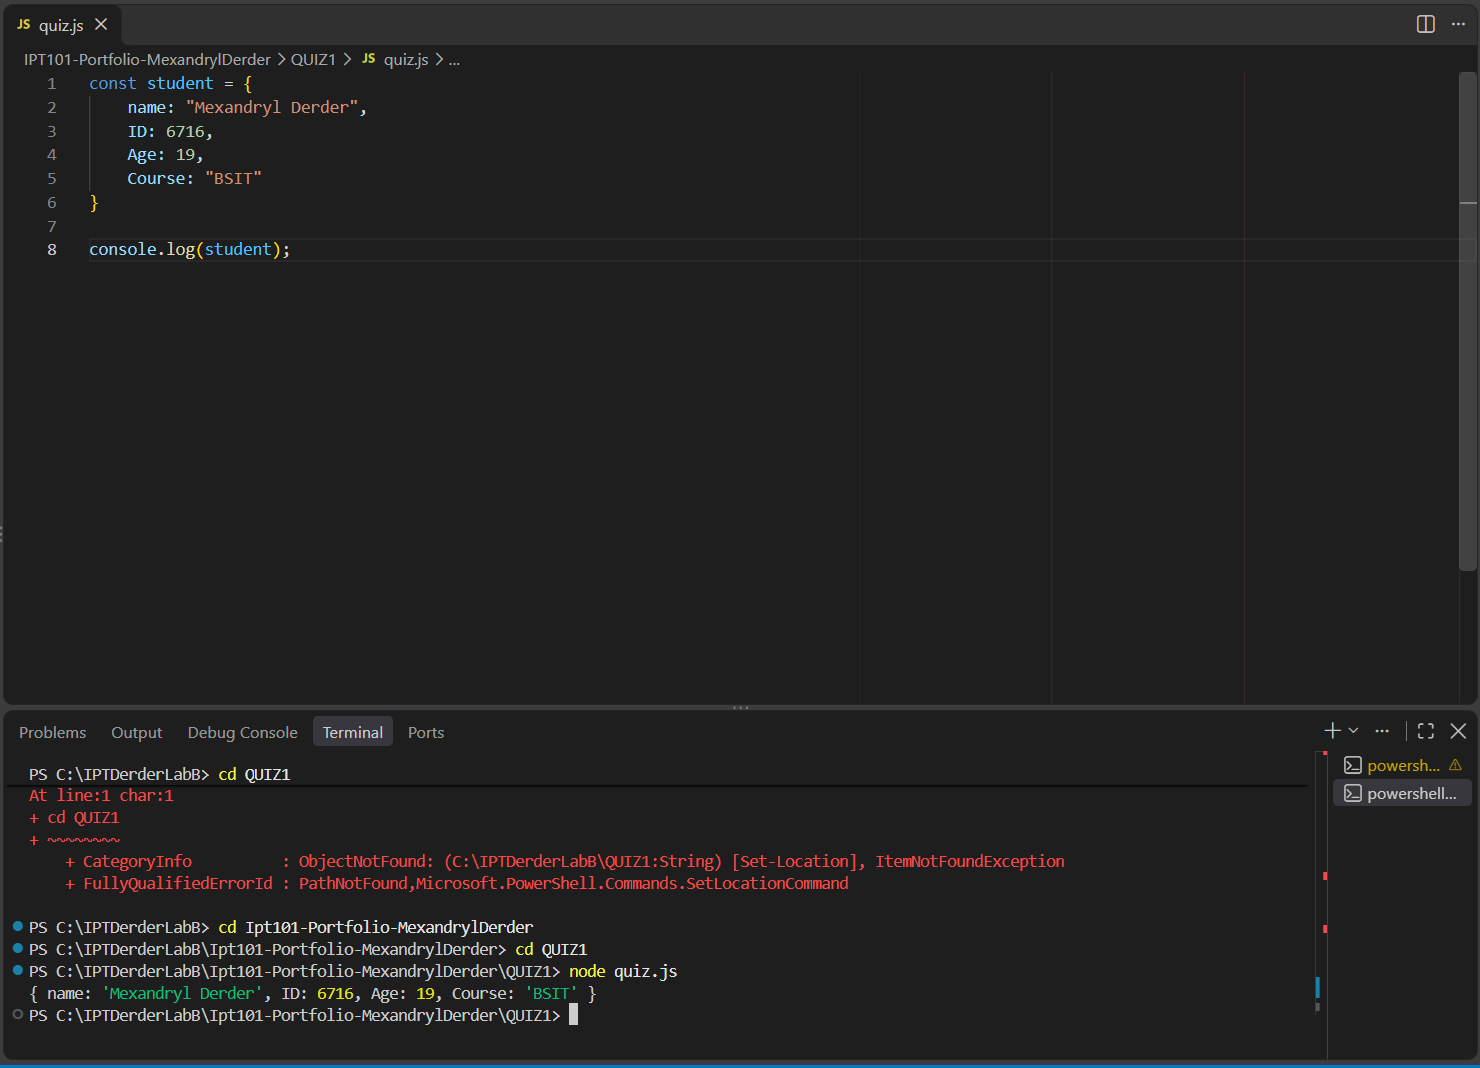
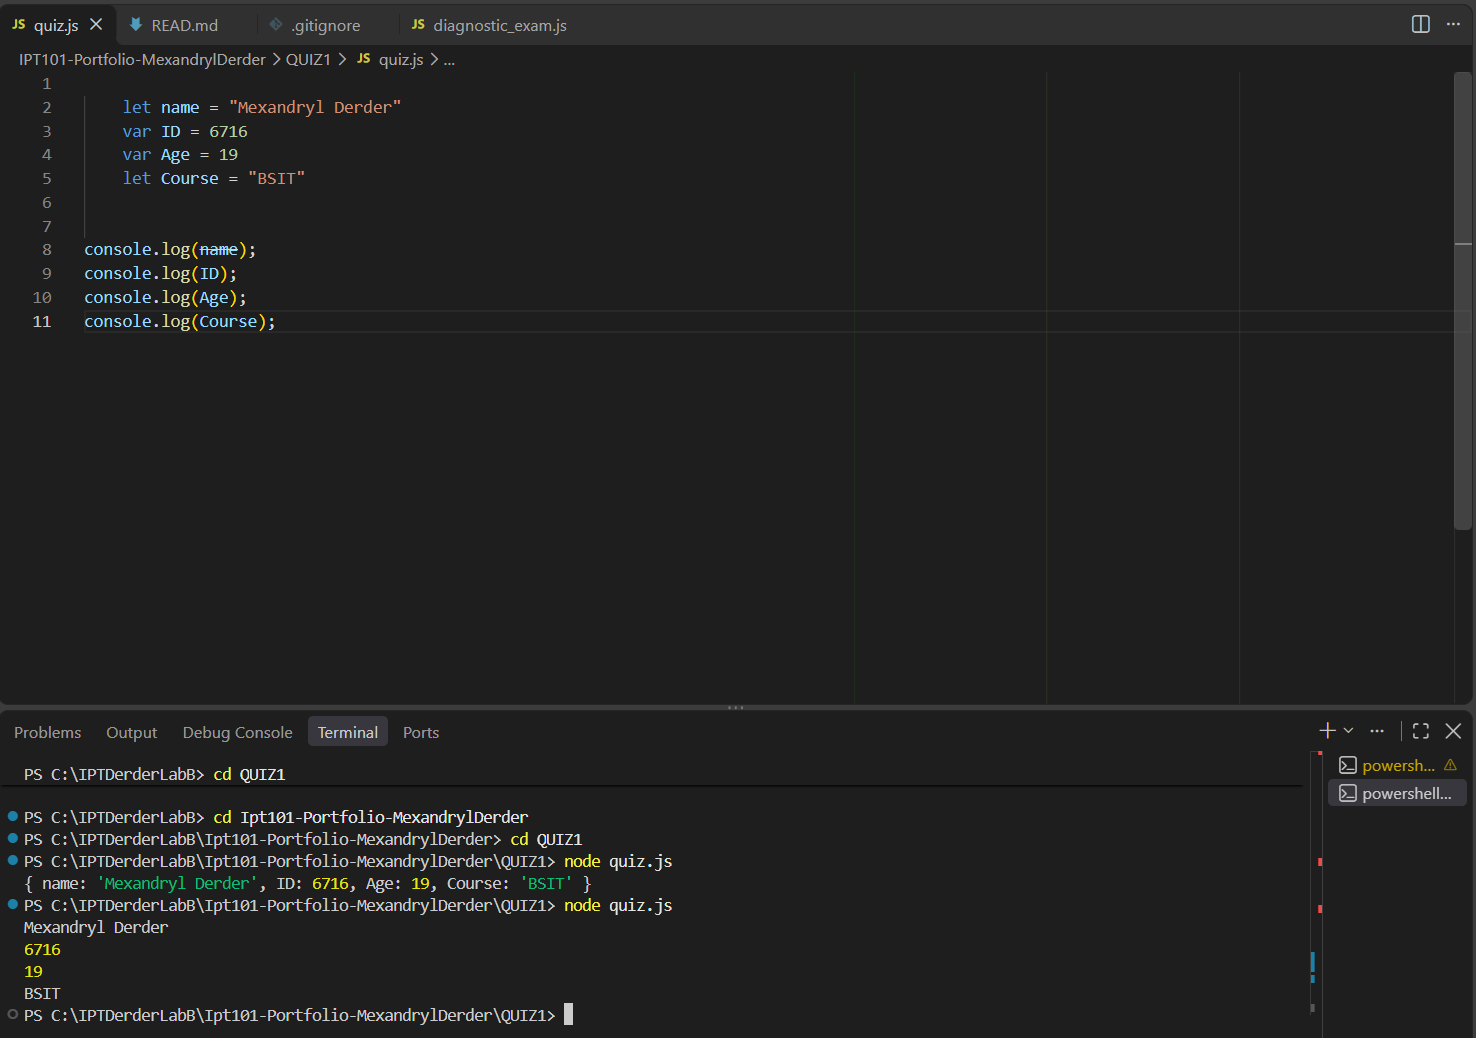
Update quiz files and output image

diff --git a/QUIZ1/diagnostic_exam.js b/QUIZ1/diagnostic_exam.js
@@ -1,11 +1,8 @@
 const studentProfile = {
-    name : "Mexandryl Derder",
-    ID : 6716,
-    Age : 19,
-    Course : "BSIT"
+    name: "Dryl Derder",
+    ID: 6717,
+    Age: 19,
+    Course: "BSIT"
 }
 
-console.log(studentProfile.name);
-console.log(studentProfile.ID);
-console.log(studentProfile.Age);
-console.log(studentProfile.Course);
+console.log(studentProfile);

diff --git a/QUIZ1/quiz.js b/QUIZ1/quiz.js
@@ -5,4 +5,7 @@ const student = {
     Course: "BSIT"
 }
 
-console.log(student);
+console.log(name);
+console.log(ID);
+console.log(Age);
+console.log(Course);
